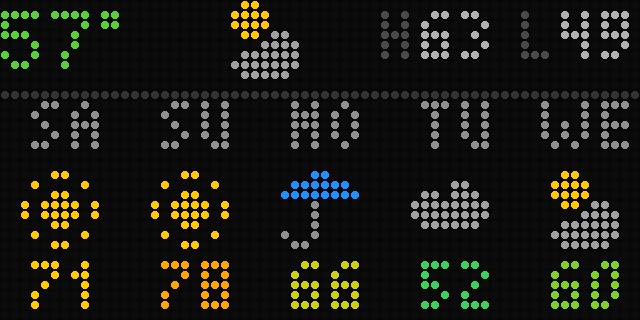
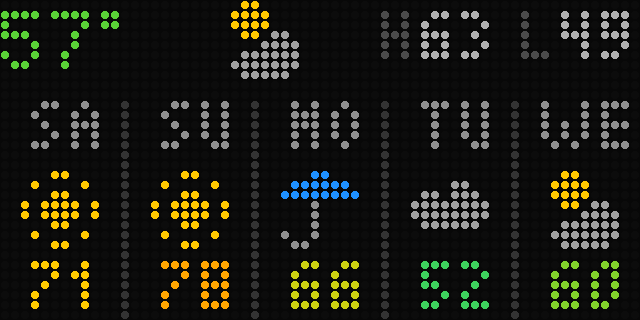
5-day mockup: vertical day dividers instead of the horizontal line
Claude-Session: https://claude.ai/code/session_01HqCaRkgLpPNdW617vaRVXA

Changed region(s): [[0.0, 0.2812, 1.0, 1.0]]

diff --git a/scripts/mock-weather-round3.js b/scripts/mock-weather-round3.js
@@ -184,7 +184,7 @@ group('5day-final', (panel) => {
     hx = f.text('small', '63', hx, 6, NUM);
     hx = f.text('small', ' L', hx, 6, LET);
     f.text('small', '49', hx, 6, NUM);
-    f.fill(0, 9, 64, 1, C.divider);
+    for (let i = 0; i < 4; i++) f.fill(i * 13 + 12, 10, 1, 22, C.divider);   // between days
     FIVE.forEach(([d, , h, icon], i) => {
       const cx = i * 13 + 6;
       ctext(f, 'small', d, cx, 15, C.grey);
